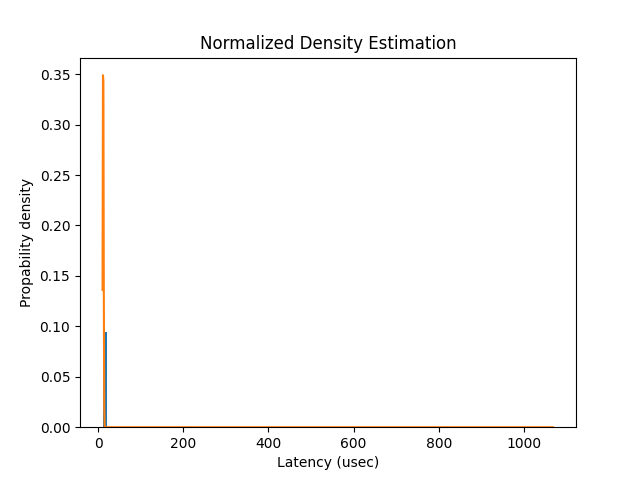
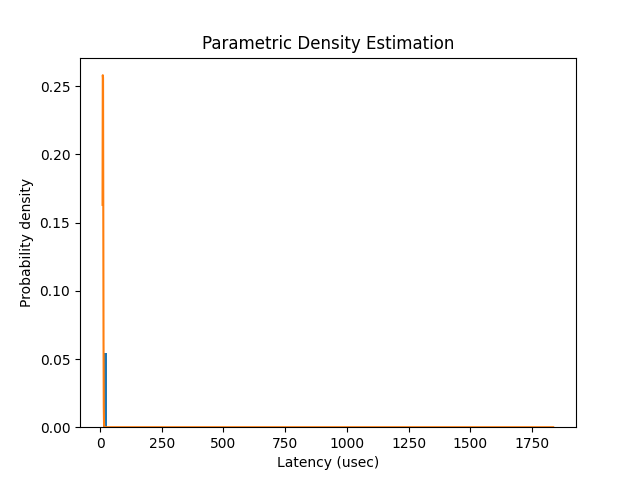
refactored histogram, general optimizations, fixed normal + kernel mode, and added mean and stddev lines in normal mode

diff --git a/src/fiohistogram.py b/src/fiohistogram.py
@@ -6,14 +6,14 @@ import math
 import numpy as np
 import matplotlib
 import matplotlib.pyplot as plt
+from matplotlib import colors
+from matplotlib.ticker import PercentFormatter
 from scipy.stats import norm
 from sklearn.neighbors import KernelDensity
 from sklearn.model_selection import GridSearchCV, LeaveOneOut
 
 from line_count import line_count
 from fio_utils import time_it
-from matplotlib import colors
-from matplotlib.ticker import PercentFormatter
 
 def filter_where(arr, k):
     return arr[np.where(arr < k)]
@@ -23,6 +23,8 @@ def load(args):
     print("Lines in file: {}".format(lc))
     load_limit = 1.0 if args.load_limit < 0.0 or args.load_limit > 1.0 else args.load_limit
     N = int((lc+1) * load_limit)
+    if args.load_limit:
+        print("Loading {} samples...".format(N))
     values = np.zeros(N)
     start_time = time.time_ns()
     if args.verbose:
@@ -67,16 +69,26 @@ def determine_ylabel(args):
         return "Samples Per Bin"
 
 def hist(ax, args, sample, smin, smax):
+    '''
+    Builds a simple histogram to represent the sample distribution. Typically used to represent the probability density function (pdf) or 
+    cumulative density function (cdf) as is.
+    '''
     b = int(args.bins) if not args.xlog else 10 ** np.linspace(np.log10(smin), np.log10(smax), int(args.bins))
-    if args.hist_mode == "pdf":
-        weights = np.ones_like(sample)/float(len(sample))
-        return ax.hist(sample, bins=b, weights=weights, log=args.ylog, range=(smin, smax)) 
-    elif args.hist_mode == "cdf":
+    if args.hist_mode == "cdf":
         return ax.hist(sample, bins=b, density=True, cumulative=True, log=args.ylog, range=(smin, smax)) 
+    elif args.hist_mode == "pdf":
+        if args.mode == "simple":
+            weights = np.ones_like(sample)/float(len(sample))
+            return ax.hist(sample, bins=b, weights=weights, log=args.ylog, range=(smin, smax)) 
+        else:
+            return ax.hist(sample, bins=b, density=True, log=args.ylog, range=(smin, smax)) 
     else: 
         return ax.hist(sample, bins=b, log=args.ylog, range=(smin, smax)) 
 
 def histogram(args, sample, smin, smax):
+    '''
+    The simple mode will focus on representing the sample just as a histogram in order to summarize the density.
+    '''
     fig, ax = plt.subplots()
     N, bins, patches = hist(ax, args, sample, smin, smax)
     if (args.color):
@@ -90,6 +102,10 @@ def histogram(args, sample, smin, smax):
         ax.yaxis.set_major_formatter(PercentFormatter(xmax=1,decimals=3))
     
 def normal_distribution(args, sample, smin, smax): 
+    '''
+    Assumes that the sample shows a common distribution which only involve two parameters: mean and standard deviation.
+    This mode will estimate these parameters from the sample data and plot the resulting normal distribution onto the histogram.
+    '''
     if (args.verbose): # calculate parameters
         print("Calculate parameters...")
     sample_mean = np.mean(sample)
@@ -115,18 +131,29 @@ def normal_distribution(args, sample, smin, smax):
     if (args.percentage):
         ax.yaxis.set_major_formatter(PercentFormatter(xmax=1,decimals=3))
     ax.plot(values, probabilities)
+    if args.show_means:
+        plt.axvline(x=sample_mean, label="mean", c="b")
+        plt.axvline(x=sample_mean+sample_std, label="mean+std", c="g", linestyle="dotted")
+        plt.axvline(x=sample_mean-sample_std, label="mean-std", c="r", linestyle="dashed")
+        plt.legend()
     if args.min:
         ax.set_xlim(left=int(args.min))
     if not args.ylog: 
         ax.set_ylim(bottom=0)
 
 def determine_bandwidth(args, train):
+    '''
+    Determines the bandwidth for kernel density estimation. 
+    
+    Note: Kernel bandwidth has nothing to do with the metric bandwidth of fio log files. 
+    Instead the kernel bandwidth specifies the size of the kernel at each point and thus how *smooth* the kernel will become.
+    '''
     # determine optimal bandwidth based on training dataset
     if (args.verbose):
         print("Determining optimal bandwidth...")
     start_time = time.time_ns()
     bandwidths = np.linspace(0.0, 5.0, 100, dtype=float)
-    grid = GridSearchCV(KernelDensity(kernel='gaussian'),
+    grid = GridSearchCV(KernelDensity(kernel='gaussian', atol=args.absolute_tolerance, rtol=args.relative_tolerance),
                         {'bandwidth': bandwidths})
     train = train.reshape((len(train), 1))
     grid.fit(train)
@@ -135,29 +162,49 @@ def determine_bandwidth(args, train):
     print("Optimal bandwidth: {}".format(grid.best_params_.bandwidth))
     return grid.best_params_.bandwidth
 
+def split(args, sample):
+    '''
+    Splits the data sample into training (used for bandwidth determination) and validation (trains model) datasets.
+    See also '--training_split' for more information.
+    '''
+    if (args.verbose):
+        print("Splitting dataset into training and test datasets...")
+    if not args.kernel_bandwidth and args.training_split:
+        train, validate = np.split(sample, [int(len(sample)*args.training_split), int(len(sample)*1)])
+        print("Train dataset: {} samples ({}%), ".format(len(train), args.training_split * 100))        
+        print("Validation dataset: {} samples ({}%), ".format(len(validate), (1-args.training_split) * 100))
+        return (train, validate)
+    else:
+        validate, test = np.array_split(sample, 2)  
+        print("Validation dataset: {} samples ({}%), ".format(len(validate), 100))
+        return (np.empty((1,0)), sample)
+
 def calc_density(args, sample, smin, smax):
     """
     Train a Kernel Density Estimation model using sample data and produce probabilities in appropriate range
     """
     # split dataset into training, validation and test datasets
-    if (args.verbose):
-        print("Splitting dataset into training, validation and test datasets...")
-    train, validate, test = np.split(sample, [int(len(sample)*args.training_split), int(len(sample)*(1.0-args.training_split))])
+    train, validate = split(args, sample)
     start_time = time.time_ns()
-    bw = float(args.kbw) if args.kbw else determine_bandwidth(args, train)
+    bw = float(args.kernel_bandwidth) if args.kernel_bandwidth else determine_bandwidth(args, train)
     # training kernel density model
     if (args.verbose):
         print("Training kernel density model...")
     validate = validate.reshape((len(validate), 1))
-    model = KernelDensity(bandwidth=args.kbw, kernel=args.kmode)
+    model = KernelDensity(bandwidth=args.kernel_bandwidth, kernel=args.kmode, atol=args.absolute_tolerance, rtol=args.relative_tolerance)
     model = model.fit(validate)
+    print("Total training time: {:.3f} sec".format((time.time_ns() - start_time) / 1E9))
     if (args.verbose):
         print("Sampling probabilities for a range of outcomes...")
-    print("Total training time: {:.3f} sec".format((time.time_ns() - start_time) / 1E9))
     start_time = time.time_ns()
     # sample probabilities for a range of outcomes
+    test = np.linspace(smin, smax, 100, dtype=float)
     test = test.reshape((len(test), 1))
+    print("Total log probability density score: {}".format(model.score(test)))
+    print("Scoring time: {:.3f} sec".format((time.time_ns() - start_time) / 1E9))
+    t = time.time_ns()
     probabilities = model.score_samples(test)
+    print("Evaluation time: {:.3f} sec".format((time.time_ns() - t) / 1E9))
     probabilities = np.exp(probabilities)
     print("Total sampling time: {:.3f} sec".format((time.time_ns() - start_time) / 1E9))
     return (test, probabilities)
@@ -185,13 +232,21 @@ def kernel_density(args, sample, smin, smax):
     ax.legend()
 
 def run(args):
+    '''
+    The regular runtime flow is outlined as follows:
+    1. load and parse input
+    2. calculate min and max values in data sample to specify range
+    3. process sample depending on mode, see '-m' or '--mode' in argument list for more infomation regarding these
+    4. output temporal measurements of execution
+    5. output results either directly to file or in a new window 
+    '''
     start_time = time.time_ns()
     # load and parse input
     sample = time_it(load,args.verbose, args, end_tag="File loading time")
     
     # calculate min and max values of sample data
     sample_min = int(args.min) if args.min else np.min(sample)
-    sample_max = int(args.max) if args.max else np.max(sample)
+    sample_max = int(args.max) if args.max and not args.outlier_cutoff else np.max(sample) if not args.outlier_cutoff else int(args.outlier_cutoff)
     if (args.verbose):
         print("Min value: {}, Max value: {}".format(sample_min, sample_max))
 
@@ -211,30 +266,48 @@ def run(args):
     plt.close()
 
 def main():
+    '''
+    The main function handles specifying how the program can be executed including which arguments are required and optional for running the program. 
+    See below for a full list or use '-h' or '--help' for more information about each argument.
+    '''
     parser = argparse.ArgumentParser()
     # required arguments
     parser.add_argument('-f','--filepath', help='absolute/relative filepaths for file to parse', required=True)
     parser.add_argument('-m','--mode', help="histogram mode used for parsing and building graphs", 
                         choices=["simple","normal", "kernel"], required=True)
-    # optional arguments
+
+    # optional arguments - general
     parser.add_argument('-v','--verbose', help="print more information while running script", default=False, action='store_true')
+
     parser.add_argument('-w','--windowed', help="instead of writing to file then show in window", default=False, action='store_true')
     parser.add_argument('-o','--output', help="filepath for the built graph. defaults to 'output-hist.png'", default="output-hist.png")
-    parser.add_argument('-ll','--load_limit', help="limits the amount of data to be loaded into the graph. provide as decimal percentage. defaults to 1.", default=1.0, type=float)
-    parser.add_argument('--xlabel', help="label for x-axis. defaults to 'Latency (usec)'", default="Latency (usec)")
-    parser.add_argument('--kmode', help="decide what kernel density estimation method to use. defaults to 'gaussian'", 
-                        choices=["gaussian", "tophat", "epanechnikov"], default="gaussian")
+    
+    parser.add_argument('-hm', '--hist_mode', help="select a mode for how the histogram should represent probability density. defaults to 'pdf'", default="pdf", choices=["pdf","cdf","val"])
+
+    # optional arguments - limits
     parser.add_argument('--bins', help="number of bins to distribute values into. defaults to 100.", default=100)
-    parser.add_argument('--outlier_cutoff', help="specify a maximum value so only a range (0-value) of measurements are processed further.")
     parser.add_argument('--min', help="specify minimum data value for range")
     parser.add_argument('--max', help="specify maximum data value for range.")
+    parser.add_argument('-c','--outlier_cutoff', help="specify a maximum value so only a range (0-value) of measurements are processed further.")
+    parser.add_argument('-ll','--load_limit', help="limits the amount of data to be loaded in for processing. provide as decimal percentage. defaults to 1.", default=1.0, type=float)
+    
+    # optional arguments - normal mode
+    parser.add_argument('--show_means', help="in 'normal' mode then show the calculated mean and standard deviation on generated graph", default=False, action='store_true')
+
+    # optional arguments - kernel mode
+    parser.add_argument('--training_split', help="how large a fraction that the training data should be out of total dataset. defaults to 0.5, i.e. 50%", default=0.5, type=float)
+    parser.add_argument('-kbw', '--kernel_bandwidth', help="set kernel bandwidth. note that setting this value has the consequence that training dataset is ignored.", type=float)
+    parser.add_argument('--kmode', help="decide what kernel density estimation method to use. defaults to 'gaussian'", 
+                        choices=["gaussian", "tophat", "epanechnikov"], default="gaussian")
+    parser.add_argument('-atol','--absolute_tolerance', help="specify the absolute tolerance for kernel estimation. defaults to '0.0'", default=0.0, type=float)
+    parser.add_argument('-rtol','--relative_tolerance', help="specify the relative tolerance for kernel estimation. defaults to '0.0'", default=0.0, type=float)
+
+    # optional arguments - visuals
+    parser.add_argument('--xlabel', help="label for x-axis. defaults to 'Latency (usec)'", default="Latency (usec)")
     parser.add_argument('--ylog', help="use a logarithmic y-axis. disabled by default.", default=False, action='store_true')
     parser.add_argument('--xlog', help="use a logarithmic x-axis. disabled by default.", default=False, action='store_true')
-    parser.add_argument('--color', help="color the histogram according to height. disabled by default.", default=True, action='store_true')
+    parser.add_argument('--color', help="color the histogram according to height. disabled by default.", default=False, action='store_true')
     parser.add_argument('--percentage', help="represent probability density by percentage instead of decimal. disabled by default.", default=False, action='store_true')
-    parser.add_argument('-hm', '--hist_mode', help="select a mode for how the histogram should represent probability density. defaults to 'pdf'", default="pdf", choices=["pdf","cdf","val"])
-    parser.add_argument('--training_split', help="how large a fraction that the training data should be out of total dataset. defaults to 0.5, i.e. 50%", default=0.5, type=float)
-    parser.add_argument('--kbw', help="set kernel bandwidth. note that setting this value has the consequence that training dataset is ignored.", type=float)
 
     # prints introduction and measure runtime
     args = parser.parse_args()
